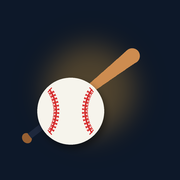
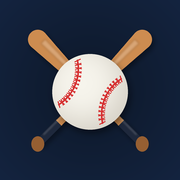
앱 아이콘 교체: 남색 배경에 X자 배트와 야구공
Claude-Session: https://claude.ai/code/session_01VYi7RVYuqfbgCvP2WgmAJ5

Changed region(s): [[0.1111, 0.1389, 0.8611, 0.8611]]

diff --git a/practice.html b/practice.html
@@ -2,8 +2,8 @@
 <title>타격 연습장</title>
 <meta name="viewport" content="width=device-width, initial-scale=1, maximum-scale=1, user-scalable=no, viewport-fit=cover">
 <link rel="manifest" href="manifest.webmanifest">
-<link rel="icon" href="icons/favicon-64.png">
-<link rel="apple-touch-icon" href="icons/apple-touch-icon.png">
+<link rel="icon" href="icons/favicon-64.png?v=2">
+<link rel="apple-touch-icon" href="icons/apple-touch-icon.png?v=2">
 <meta name="theme-color" content="#0d1829">
 <meta name="mobile-web-app-capable" content="yes">
 <meta name="apple-mobile-web-app-capable" content="yes">

diff --git a/index.html b/index.html
@@ -4,8 +4,8 @@
 <title>타격 명상</title>
 <meta name="viewport" content="width=device-width, initial-scale=1, maximum-scale=1, user-scalable=no, viewport-fit=cover">
 <link rel="manifest" href="manifest.webmanifest">
-<link rel="icon" href="icons/favicon-64.png">
-<link rel="apple-touch-icon" href="icons/apple-touch-icon.png">
+<link rel="icon" href="icons/favicon-64.png?v=2">
+<link rel="apple-touch-icon" href="icons/apple-touch-icon.png?v=2">
 <meta name="theme-color" content="#0d1829">
 <meta name="mobile-web-app-capable" content="yes">
 <meta name="apple-mobile-web-app-capable" content="yes">
